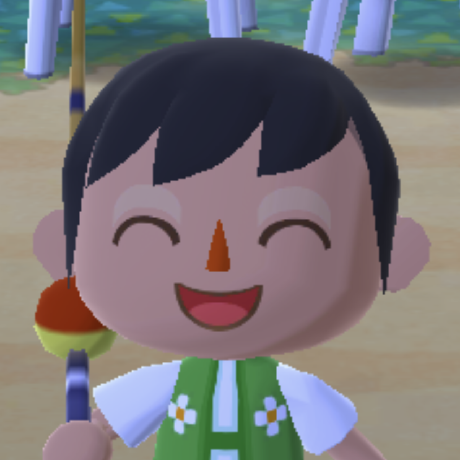
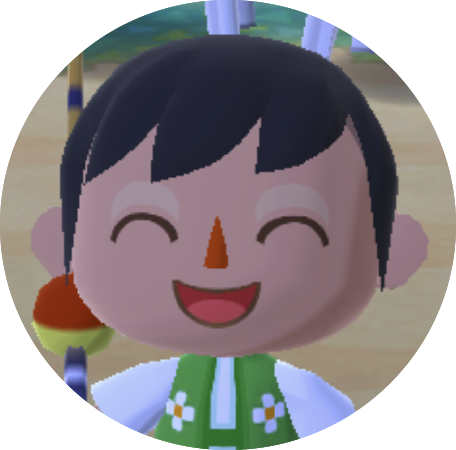
Change styles and propic

diff --git a/assets/style.css b/assets/style.css
@@ -1,13 +1,14 @@
 :root {
     --accent: #CE8BAE;
-    --accent-light: #e2c5d4;
-    --grey: #444;
+    --accent-light: #ffe0f0;
+    --grey: rgb(50, 50, 50);
 }
 
 html {
     font-size:  100%;
     scroll-behavior: smooth;
-    background-color: #F5F5F5;
+    background-color: #efdfe8;
+    color: var(--grey)
 }
 
 ::selection {
@@ -57,6 +58,8 @@ main {
 }
 
 .page-footer {
+    display: flex;
+    flex-direction: column;
     text-align: center;
     margin-bottom: 8px;
 }

diff --git a/layouts/default.html b/layouts/default.html
@@ -21,7 +21,8 @@
     </main>
 
     <footer class="page-footer">
-        <small>Copyright {{site.year}} | {{site.author}}</small>
+        <small>Copyright {{site.year}} © {{site.author}}</small>
+        <small>Made with 💜🌱</small>
     </footer>
 </body>
 

diff --git a/index.md b/index.md
@@ -4,6 +4,8 @@ layout: default
 
 # good morning
 
-(*꒦ິ꒳꒦ີ)
+(\*꒦ິ꒳꒦ີ)
 
 i'm **renzo** (he/they). i'm tending a garden 🌱
+
+if you somehow find this, here's my portfolio: [ renzomledesma.me ](https://renzomledesma.me/)
